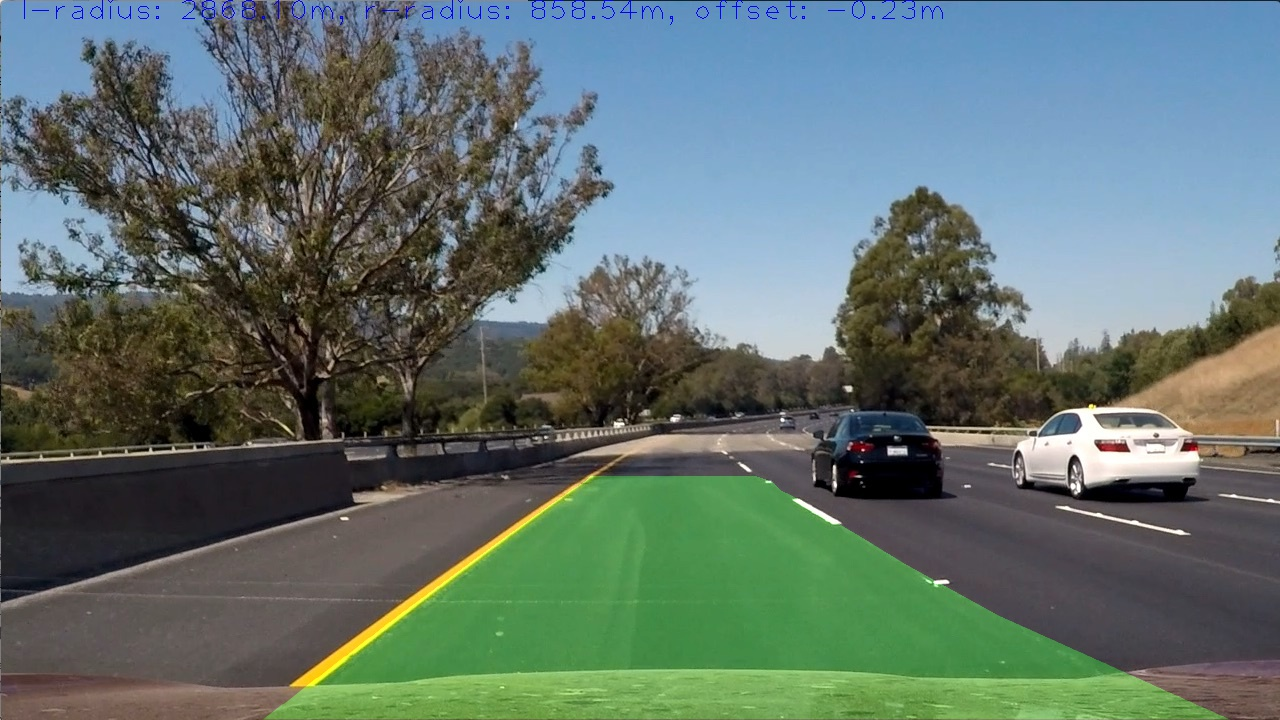
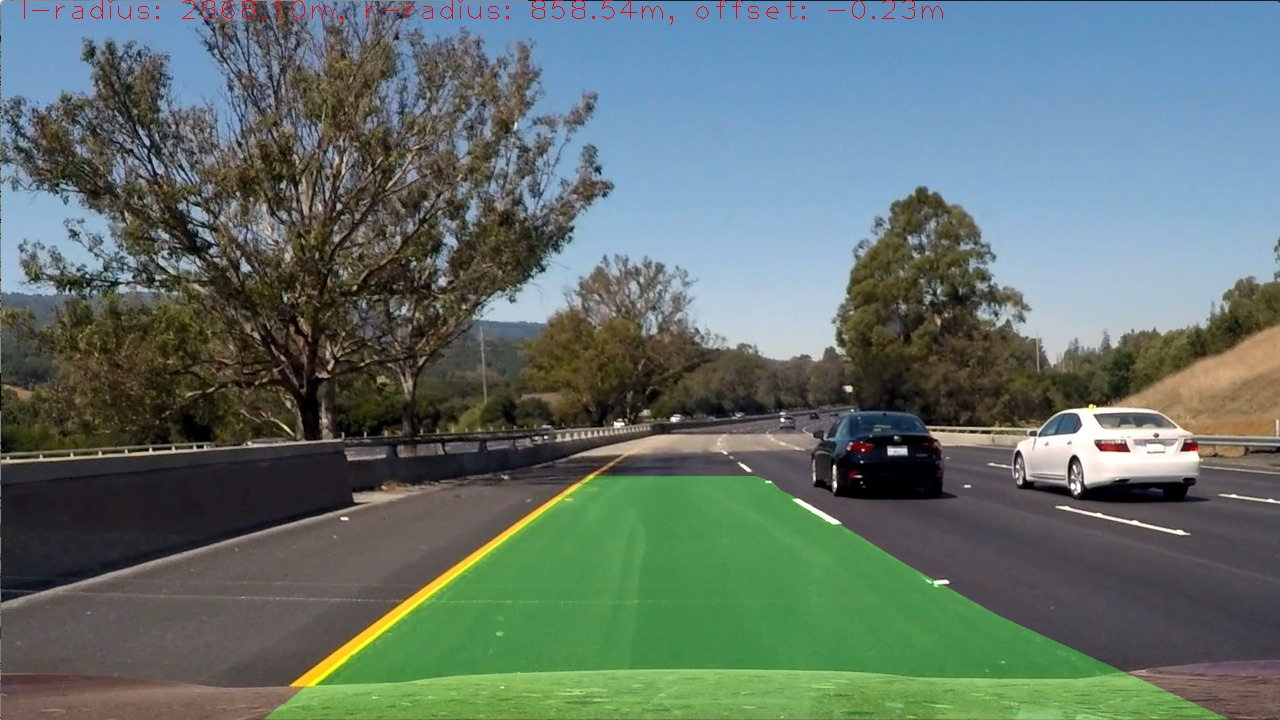
Fix readme.

Changed region(s): [[0.0, 0.0, 0.75, 0.0306]]

diff --git a/main.py b/main.py
@@ -62,7 +62,7 @@ def find_lanes(images, write=False):
 
     return polys, curvatures
 
-def draw_lanes(images, polys, curvatures):
+def draw_lanes(images, polys, curvatures, flip_color=False):
 
     if (len(images) != len(polys)):
         raise Exception('Number of images and polynomials differ!')
@@ -83,7 +83,7 @@ def draw_lanes(images, polys, curvatures):
         canvas = unwarp(canvas)
         img = cv2.addWeighted(img, 1, canvas, 0.3, 0)
 
-        cv2.putText(img, 'l-radius: %.2fm, r-radius: %.2fm, offset: %.2fm' % curvatures[i], (20, 20), cv2.FONT_HERSHEY_PLAIN, 2, (255,0,0))
+        cv2.putText(img, 'l-radius: %.2fm, r-radius: %.2fm, offset: %.2fm' % curvatures[i], (20, 20), cv2.FONT_HERSHEY_PLAIN, 2, (0,0,255) if flip_color else (255,0,0))
         with_lanes.append(img)
 
     return with_lanes
@@ -115,7 +115,7 @@ def test():
 
     polys, curvatures = find_lanes(warped, True)
 
-    final_images = draw_lanes(images, polys, curvatures)
+    final_images = draw_lanes(images, polys, curvatures, True)
 
     write_images(final_images, 'final')
 

diff --git a/README.md b/README.md
@@ -9,8 +9,8 @@ The goals / steps of this project are the following:
 [chess1]: ./camera_cal/test_image.jpg "Distorted"
 [chess2]: ./output_images/chessboard.jpg "Undistorted"
 [dist]:   ./test_images/test6.jpg "Distorted"
-[undist]: ./output_images/undistored6.jpg "Undistorted"
-[dstacked]: ./output_images/dstacked2.jpg "Stacked (green is gradient, red is S channel)"
+[undist]: ./output_images/undistorted6.jpg "Undistorted"
+[dstacked]: ./output_images/dstack2.jpg "Stacked (green is gradient, red is S channel)"
 [binary]: ./output_images/binary4.jpg "Binary"
 
 [driverview]: ./output_images/binary6.jpg "Driver's perspective"
@@ -19,7 +19,7 @@ The goals / steps of this project are the following:
 [lanesgood]: ./output_images/lanes0.jpg "Good lane detection"
 [lanesbad]: ./output_images/lanes3.jpg "Failure due to noise"
 
-[final]: ./output_images/final4.jpg "Lane surface drawing"
+[final]: ./output_images/final2.jpg "Lane surface drawing"
 [video]: ./output_images/video.gif "Lane detection"
 
 ## Rubric Points
@@ -30,7 +30,9 @@ The code for this step is contained in calibration.py file. I largely follow the
 
 Here is an example of a distorted/undistorted chessboard:
 
-![alt text][chess1] ![alt text][chess2]
+![alt text][chess1]
+
+![alt text][chess2]
 
 ### Pipeline (single images)
 
@@ -38,19 +40,23 @@ Here is an example of a distorted/undistorted chessboard:
 
 After calibrating the camera, all images are undistorted:
 
-![alt text][dist] ![alt text][undist]
+![alt text][dist]
+
+![alt text][undist]
 
 #### 2. Binary transforms
 
-I use 2 channels for my binary images: 1. all pixels whose gradient magnitude and orientation fit certain thresholds, and 2. a threshold on the S channel of the images (after converting to HLS color space). The code is is transform.py with visualization in main.py. Here is an illustration with the tree-shadowed frame:
+I use two features for my binary images: all pixels whose gradient magnitude and orientation fit certain thresholds, and a threshold on the S channel of the images (after converting to HLS color space). The code is in transform.py, with visualization in main.py. Here is an illustration with the tree-shadowed frame:
 
-![alt text][dstacked] ![alt text][binary]
+![alt text][dstacked]
 
-Notice there is some noise in there.
+![alt text][binary]
+
+There is some noise around where the tree casts a shadow.
 
 #### 3. Perspective transform.
 
-The code for warping is in transform.py. It consists of calling the getPerspective and warpPerspective OpenCV functions with these source points:
+The code for warping is in transform.py. It consists of calling the getPerspective and warpPerspective OpenCV functions with these points:
 
 ```python
 src = np.float32([[(200, 720), (570, 470), (720, 470), (1130, 720)]])
@@ -59,21 +65,25 @@ dst = np.float32([[(350, 720), (370, 0), (960, 0), (980, 720)]])
 
 These are a tweaked version of the points posted by sbagalka on the forum. The results look pretty good:
 
-![alt text][driverview] ![alt text][birdview]
+![alt text][driverview]
+
+![alt text][birdview]
 
 #### 4. Polynomial fit
 
 I used the convolution-based algorithm to find the lane lines. The code is in lanes.py under the fit_poly function. The search starts using either the relevant half of the image, or a 1D-radius around the previous x values, if in video pipeline mode. After the first lane points are found, the image is searched using the previous x values.
 
-I make a minor modification, which is to use the median of the maximum activation positions, if more than one window position has max activation. This because when the entire search area is black, np.argmax will return the first position, which biases the dotted lanes to curve left. By picking the middle position instead, I bias them to be straight.
+I make a minor modification, which is to use the median of the maximum activation positions, if more than one window position has max activation. This  is because when the entire search area is black, np.argmax will return the leftmost position, which biases the dotted lanes to curve left. By picking the middle position instead, I bias them to be straight.
 
 Here is an example of lane detections, including a failure case.
 
-![alt text][driverview] ![alt text][birdview]
+![alt text][lanesgood]
+
+![alt text][lanesbad]
 
 #### 5. Radius of curvature, offset from center.
 
-This is under the lane_curvature function in lanes.py. I followed the derivation from the lectures, and used simple math to find the offset from center. I assume the camera is center mounted. The radius of curvature is is the ~1km ballpark suggested as a sanity check.
+This is under the lane_curvature function in lanes.py. I followed the derivation from the lectures, and used simple math to find the offset from center. I assume the camera is center mounted. The radius of curvature is around the 1km ballpark suggested as a sanity check.
 
 #### 6. Provide an example image of your result plotted back down onto the road such that the lane area is identified clearly.
 
@@ -85,9 +95,7 @@ This is implemented by draw_lanes in main.py. I use OpenCV fillPoly, as demonstr
 
 ### Pipeline (video)
 
-#### 1.
-
-The video pipeline tracks the lane detections in the previous frame to seed the lane search in the current frame. Outlier detection is used to reject bad lane detections. Lanes where the lane width is too small or the curavture or offset are too large are dropped, and the previous lane detections are drawn instead.
+The video pipeline tracks lane detections from the previous frame to seed the lane search in for the current frame. Outlier detection is used to reject bad lane detections. Lanes where the lane width is too small, the curavture is too large, or the offset is too large are dropped, and the previous lane detections are drawn instead.
 
 Here's a [link to my video result](./output_video.mp4)
 
@@ -101,6 +109,11 @@ Here's a gif.
 
 #### 1. Briefly discuss any problems / issues you faced in your implementation of this project.  Where will your pipeline likely fail?  What could you do to make it more robust?
 
-I think noise in the binary images is the biggest problem (at least in the easy video). This could be remedied by zeroing out anything outside the region where we expect the lanes to be. This might work fine on the highway, but on lower speed roads with high curvature, it might end up cropping out the lanes.
+I think noise in the binary images is the biggest problem (at least in the easy video). Noise in the search area can get labeled as a lane segment, as shown above in the failed lane finding image. The most egregious cases get filtered out by outlier detection, but some funky lanes might still get through.
 
-I think the color thresholding has room for improvement too. Right now I just do a simple S channel threshold, and it picks up some of the shadows and other noise. I could do more research on representations of white & yellow is HLS, and make improvements there.
+This could be remedied by zeroing out anything outside the region where we expect the lanes to be. This might work fine on the highway, but on lower speed roads with high curvature, it might end up cropping out the lanes.
+
+I think there is room for improvement in the color thresholding too. Right now I just do a simple S channel threshold, and it picks up some of the shadows and other noise. I could do more research on representations of white & yellow in HLS, and make improvements there.
+
+Another idea would be to reject lanes where the error of the polynomial fit is above a certain threshold. This might help weed out "zig zagging" lane detections. It would be pretty easy to compute the error if OpenCV doesn't expose this already.
+
